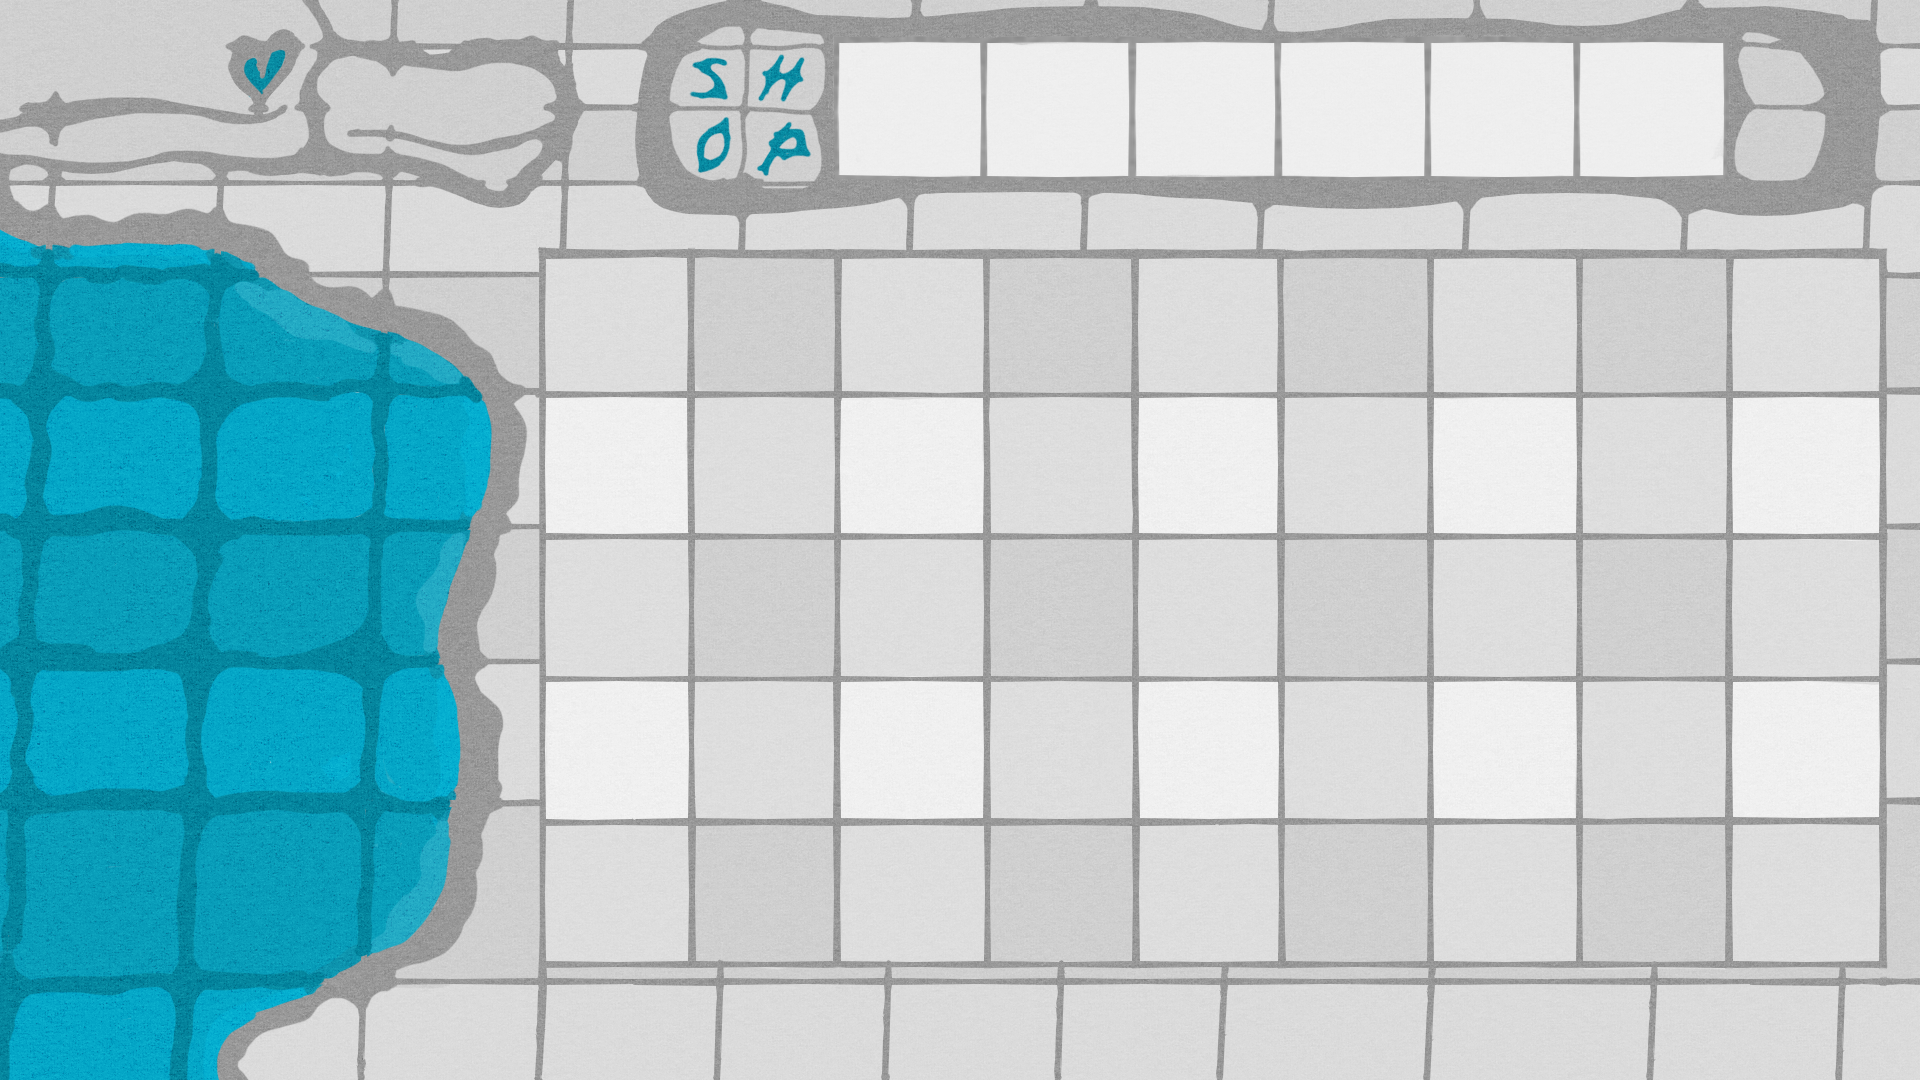
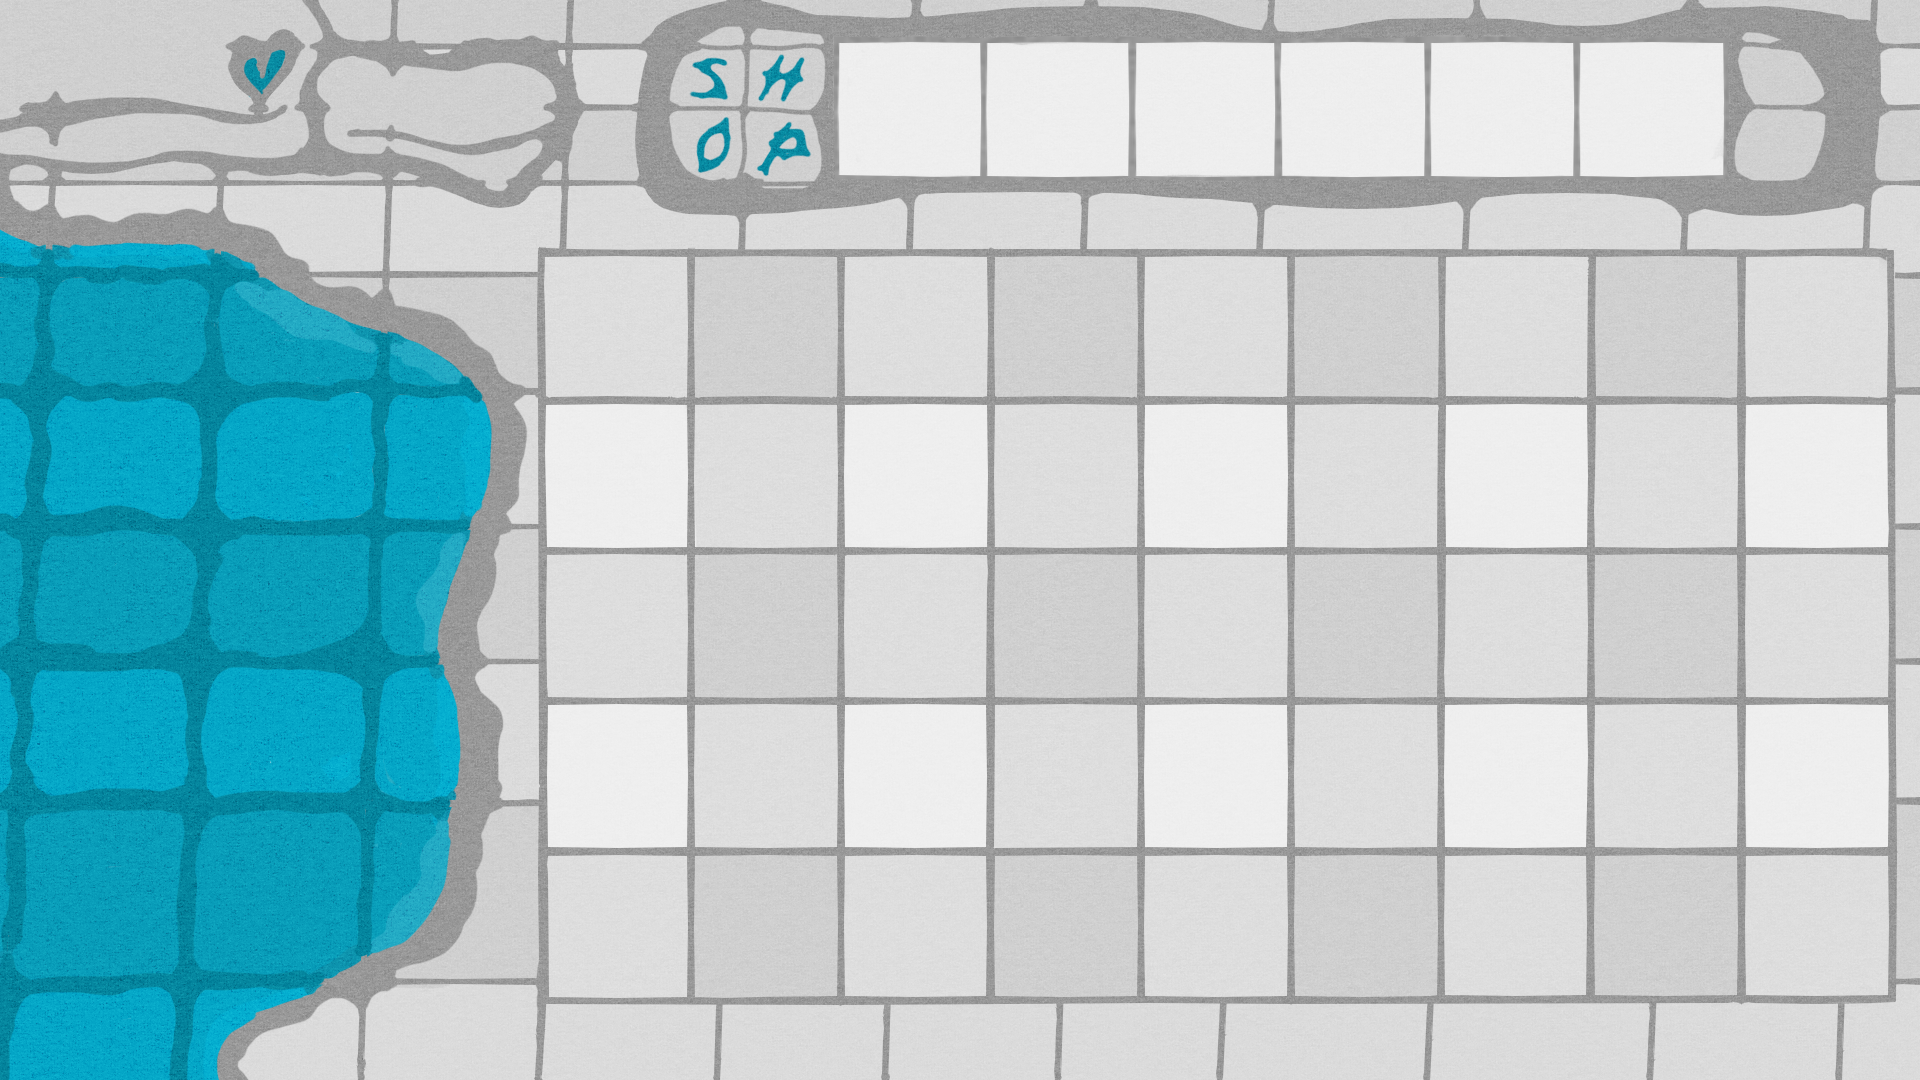
two boards

Changed region(s): [[0.2812, 0.2139, 1.0, 0.9472]]

diff --git a/main.py b/main.py
@@ -4,11 +4,14 @@ import sys
 
 SIZE = WIDTH, HEIGHT = (1920, 1080)
 MAX_WAVE = 20
-TILE_SIZE = 150
+TILE_SIZE_BOARD = 150
+TILE_SIZE_SHOP = 145
 DIR_SPAWN = 'spawn'
 DIR_DATA = 'data'
 LEFT_GAME_BOARD = 540
 TOP_GAME_BOARD = 250
+LEFT_SHOP = 845
+TOP_SHOP = 37
 
 
 def load_image(name, directory, colorkey=None):
@@ -97,16 +100,10 @@ class GameBoard(Board):
     def on_click(self, cell):
         pass
 
-    def get_click(self, mouse_pos):
-        cell = self.get_cell(mouse_pos)
-        x, y = cell
-        if x <= 8:
-            self.on_click(cell)
-
 
 class Shop(Board):
-    def __init__(self):
-        pass
+    def __init__(self, width, height, left, top, tile_size):
+        super().__init__(width, height, left, top, tile_size)
 
     def on_click(self, cell):
         pass
@@ -198,8 +195,8 @@ def main():
 
     background_image = load_image('background.png', DIR_DATA)
 
-    game_board = Board(9, 5, LEFT_GAME_BOARD, TOP_GAME_BOARD, TILE_SIZE)
-    shop = Shop()
+    game_board = Board(9, 5, LEFT_GAME_BOARD, TOP_GAME_BOARD, TILE_SIZE_BOARD)
+    shop = Shop(6, 1, LEFT_SHOP, TOP_SHOP, TILE_SIZE_SHOP)
     settings = Settings()
     game = Game(game_board, shop, settings)
 
